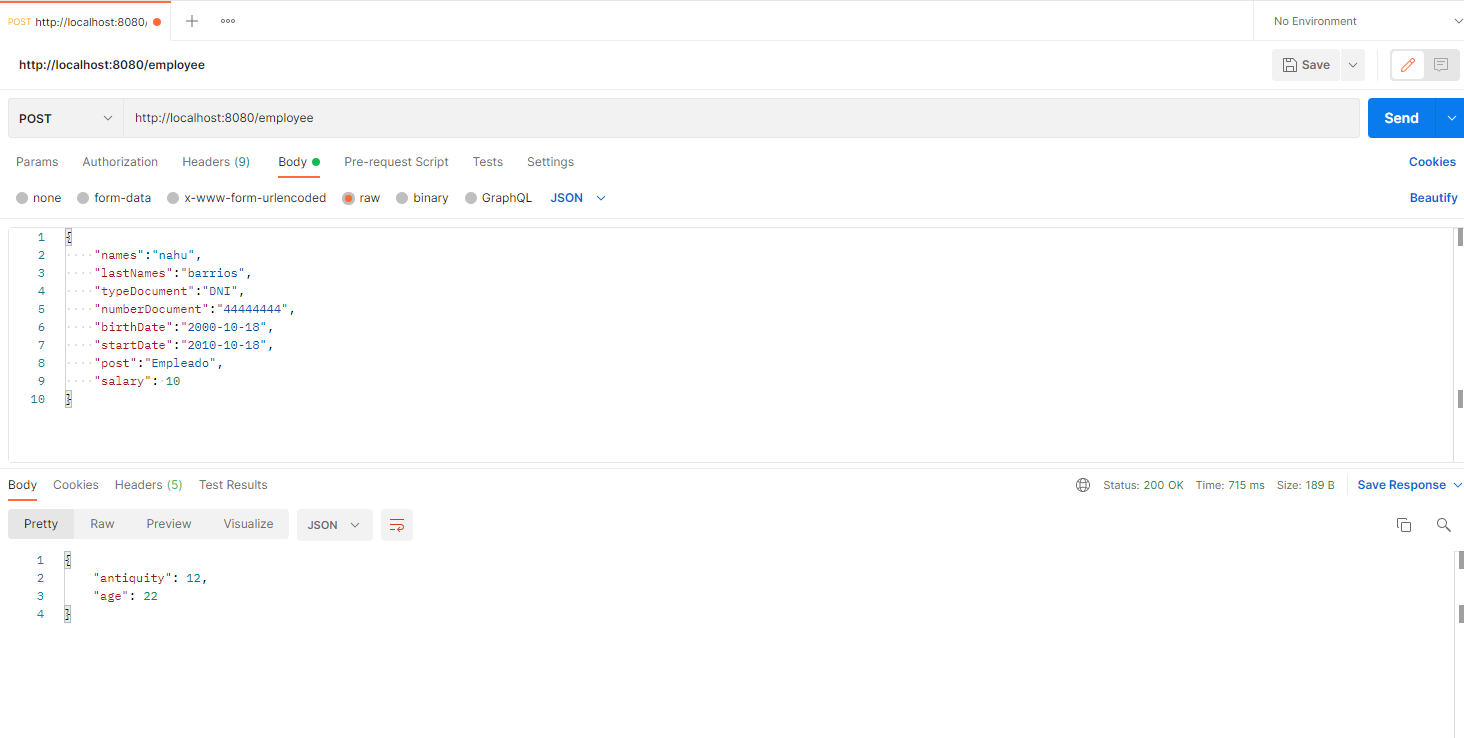
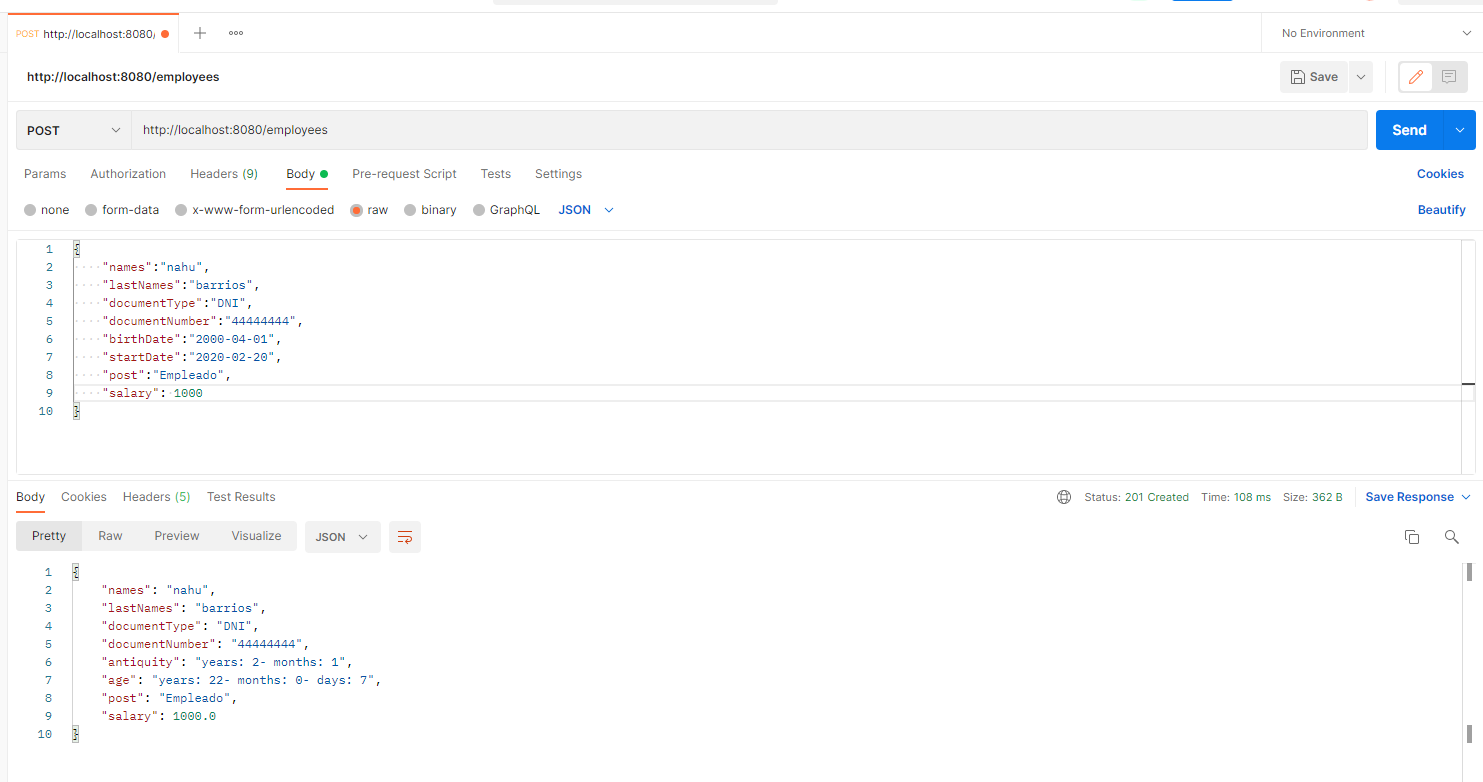
agregue test. se arreglo la respuesta de empleadoDto. arreglar la validacion de si es mayor de edad

diff --git a/src/test/java/com/examen/EmployeeControllerFuncionalTest.java b/src/test/java/com/examen/EmployeeControllerFuncionalTest.java
@@ -1,0 +1,96 @@
+package com.examen;
+
+import com.examen.dto.EmployeeCreationDto;
+import com.examen.dto.EmployeeDto;
+import com.examen.dto.ErrorDTO;
+import com.examen.repository.EmployeeRepository;
+import java.util.Date;
+import java.util.Map;
+import org.junit.jupiter.api.AfterEach;
+import org.junit.jupiter.api.BeforeEach;
+import org.junit.jupiter.api.Test;
+import org.junit.jupiter.api.TestInstance;
+import org.springframework.beans.factory.annotation.Autowired;
+import org.springframework.boot.test.context.SpringBootTest;
+import org.springframework.boot.test.web.client.TestRestTemplate;
+import org.springframework.core.ParameterizedTypeReference;
+import org.springframework.http.HttpEntity;
+import org.springframework.http.HttpMethod;
+import org.springframework.http.ResponseEntity;
+import org.springframework.test.context.ActiveProfiles;
+import static org.junit.jupiter.api.Assertions.assertEquals;
+
+@SpringBootTest(webEnvironment = SpringBootTest.WebEnvironment.RANDOM_PORT)
+@TestInstance(TestInstance.Lifecycle.PER_CLASS)
+@ActiveProfiles("test")
+public class EmployeeControllerFuncionalTest {
+
+    @Autowired
+    private TestRestTemplate testRestTemplate;
+    private HttpEntity<?> entity;
+
+    @Autowired
+    EmployeeRepository employeeRepository;
+
+    @AfterEach
+    void deleteAll() {
+        employeeRepository.deleteAll();
+    }
+
+    @Test
+    void testCreateEmployees_shouldReturnEmployeeDto() {
+        //Given
+        EmployeeCreationDto employeeCreationDto = EmployeeCreationDto.builder()
+                .names("nahu")
+                .lastNames("barrios")
+                .documentType("DNI")
+                .documentNumber("16345878")
+                .birthDate(new Date(2000-04-01))
+                .startDate(new Date(2020-03-02))
+                .post("Empleado")
+                .salary(1000.0).build();
+        String endpointUrl = "/employees";
+
+        entity = new HttpEntity(employeeCreationDto, null);
+        //When
+        ResponseEntity<EmployeeDto> response = testRestTemplate.exchange(
+                endpointUrl,
+                HttpMethod.POST,
+                entity,
+                new ParameterizedTypeReference<>() {
+                },
+                Map.of()
+        );
+        //Then
+        assertEquals(201, response.getStatusCode().value());
+    }
+
+    @Test
+    void testCreateEmployees_shouldReturnBadRequest() {
+        //Given
+        EmployeeCreationDto employeeCreationDto = EmployeeCreationDto.builder()
+                .names("")
+                .lastNames("barrios")
+                .documentType("DNI")
+                .documentNumber("16345878")
+                .birthDate(new Date(2000-04-01))
+                .startDate(new Date(2020-03-02))
+                .post("Empleado")
+                .salary(1000.0).build();
+        String endpointUrl = "/employees";
+
+        entity = new HttpEntity(employeeCreationDto, null);
+        //When
+        ResponseEntity<EmployeeDto> response = testRestTemplate.exchange(
+                endpointUrl,
+                HttpMethod.POST,
+                entity,
+                new ParameterizedTypeReference<>() {
+                },
+                Map.of()
+        );
+        //Then
+        assertEquals(400, response.getStatusCode().value());
+    }
+
+}

diff --git a/src/main/java/com/examen/mapper/EmployeeMapper.java b/src/main/java/com/examen/mapper/EmployeeMapper.java
@@ -6,6 +6,11 @@ import com.examen.dto.EmployeeDto;
 import com.examen.repository.models.EmployeeModel;
 import java.text.DateFormat;
 import java.text.SimpleDateFormat;
+import java.time.Duration;
+import java.time.LocalDate;
+import java.time.Period;
+import java.time.ZoneId;
+import java.time.format.DateTimeFormatter;
 import java.util.Date;
 
 public class EmployeeMapper {
@@ -52,19 +57,38 @@ public class EmployeeMapper {
     }
 
     public static EmployeeDto mapDomainToInformation(Employee employee){
-        Date hoy= new Date();
-        DateFormat ageFormat = new SimpleDateFormat("yyyy-MM-dd");
-        DateFormat antiquityFormat = new SimpleDateFormat("yyyy-MM");
         EmployeeDto employeeDto = EmployeeDto.builder()
                 .names(employee.getNames())
                 .lastNames(employee.getLastNames())
                 .documentType(employee.getDocumentType())
                 .documentNumber(employee.getDocumentNumber())
-                .age(ageFormat.format( employee.getBirthDate().getTime() - hoy.getTime()))
-                .antiquity(antiquityFormat.format(hoy.getTime() - employee.getBirthDate().getTime()))
+                .age(convertBirthDate(employee.getBirthDate()))
+                .antiquity(convertStartDate(employee.getStartDate()))
                 .post(employee.getPost())
                 .salary(employee.getSalary()).build();
         return employeeDto;
     }
 
+    private static String convertBirthDate(Date date){
+        LocalDate today=  LocalDate.now();
+        String result;
+        LocalDate birthDate = date.toInstant().atZone(ZoneId.systemDefault()).toLocalDate();
+        Period period = Period.between(birthDate,today);
+        int years = Math.abs(period.getYears());
+        int months = Math.abs(period.getMonths());
+        int days = Math.abs(period.getDays());
+        result = "years: "+ years + "- months: " + months + "- days: " + days;
+        return result;
+    }
+
+    private static String convertStartDate(Date date){
+        LocalDate today=  LocalDate.now();
+        String result;
+        LocalDate startDay = date.toInstant().atZone(ZoneId.systemDefault()).toLocalDate();
+        Period period = Period.between(startDay,today);
+        int years = Math.abs(period.getYears());
+        int months = Math.abs(period.getMonths());
+        result = "years: "+ years + "- months: " + months;
+        return result;
+    }
 }

diff --git a/README.md b/README.md
@@ -13,6 +13,10 @@ mvn clean install
 
 Crear una base de datos MySQL con el nombre parameta
 
+## Run Test
+
+mvn test
+
 ## Pruebas Con PostMan 
 
 Empleado creado
